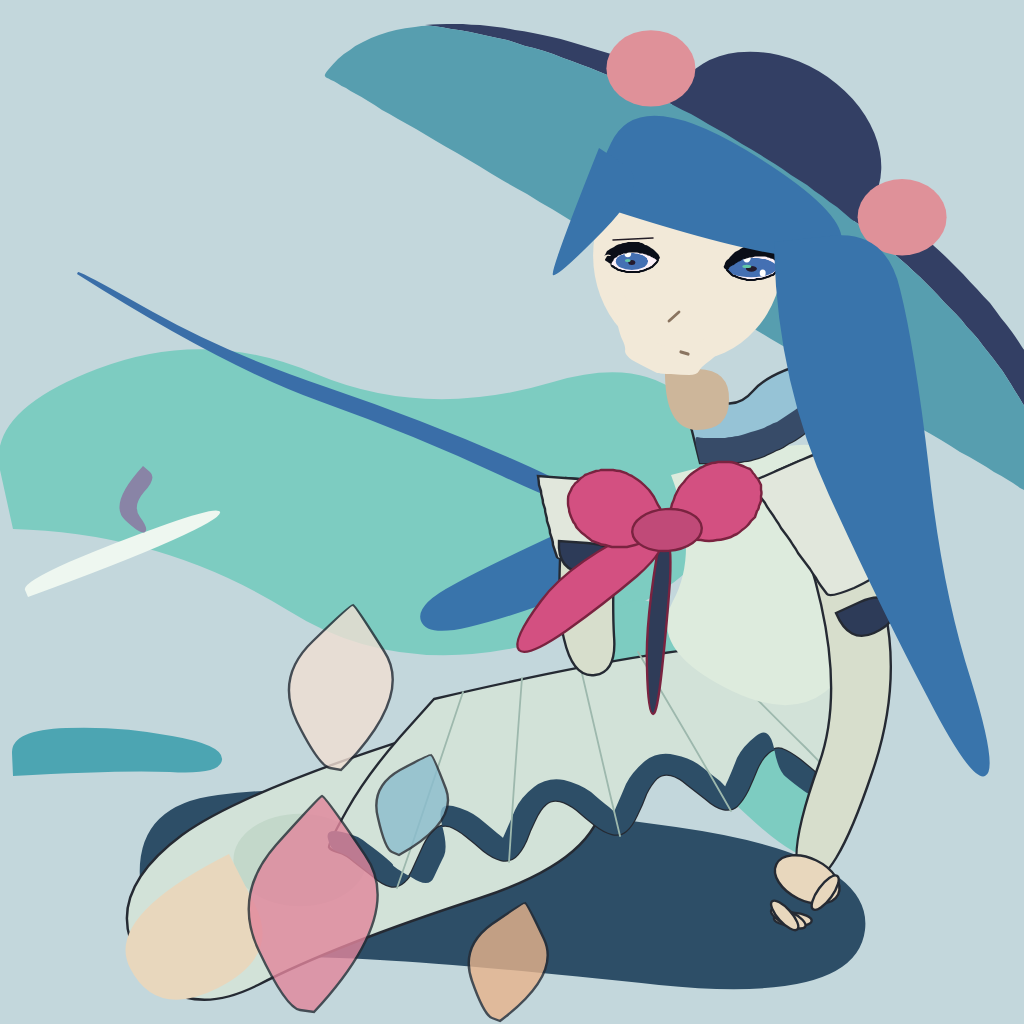
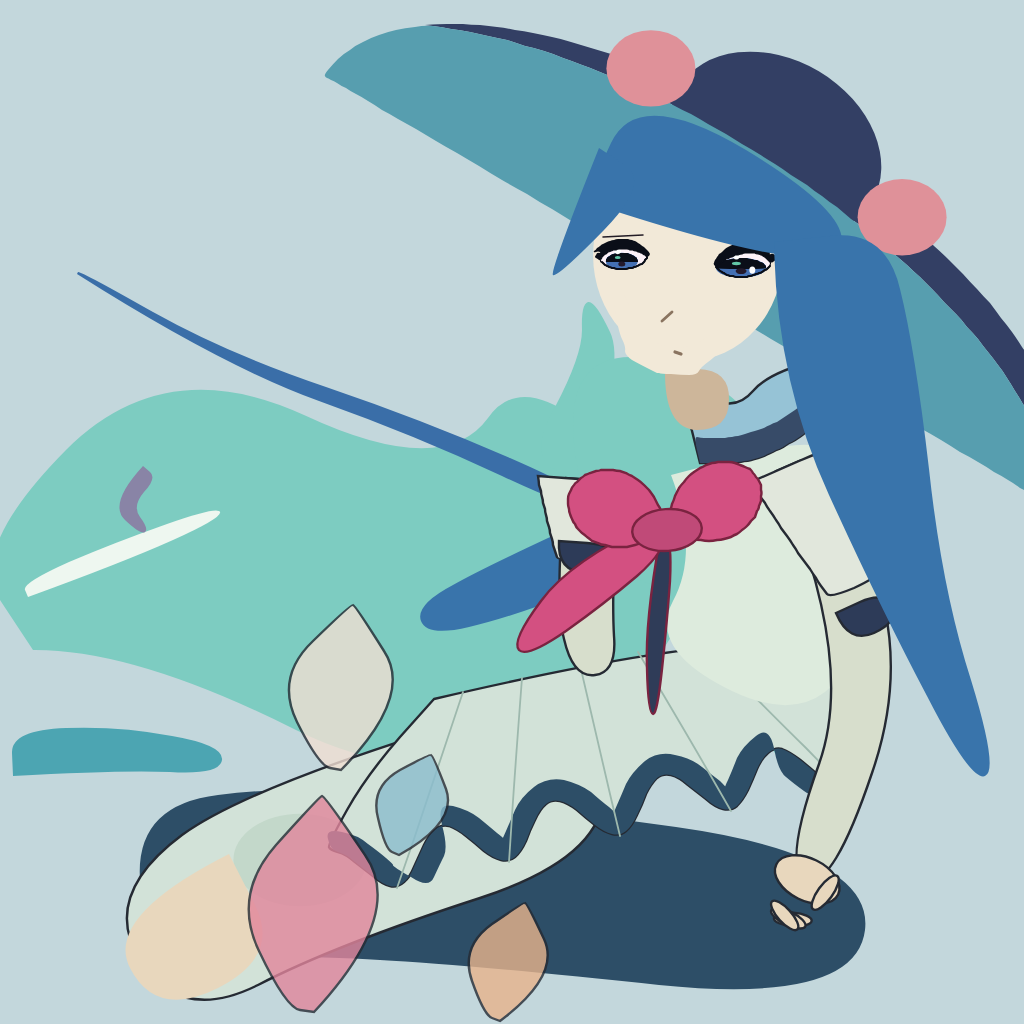
M4c REGRESSED (20/20 vs 24/24): spec reverted to M4b front artifact; similarity alarm validated (fired before the gate); loop PARKED on S2 for wave+expression

diff --git a/.scratch/13-assembly/work/m4c-selfcheck.py b/.scratch/13-assembly/work/m4c-selfcheck.py
@@ -1,0 +1,75 @@
+#!/usr/bin/env python3
+"""M4c self-check — mass- and EDGE-based render checks (parent-mandated).
+Run after rendering. Checks: wave top-edge crest-trough-crest + dip depth + non-cap curvature,
+reach, tilt, lids, and the M3/M4 regressions (neck, knee, arms, hand-on-lap, strand, hair-shoulder).
+Render-level facts only; no metric tuning. Exit 1 on FAIL."""
+import sys
+import cv2
+import numpy as np
+
+ART = sys.argv[1] if len(sys.argv) > 1 else ".scratch/13-assembly/evidence/m4c-final.png"
+d = cv2.imread(ART).astype(np.int16)
+r = cv2.imread("image.jpg").astype(np.int16)
+b0 = np.median(np.concatenate([r[:12].reshape(-1, 3), r[-12:].reshape(-1, 3),
+                               r[:, :12].reshape(-1, 3), r[:, -12:].reshape(-1, 3)]), axis=0)
+bgis = np.linalg.norm(d - b0, axis=2) <= 45
+mint = ((np.abs(d[:, :, 0] - 193) < 40) & (np.abs(d[:, :, 1] - 204) < 35) &
+        (np.abs(d[:, :, 2] - 125) < 40) & (d[:, :, 1] > d[:, :, 2] + 40))
+skinm = (np.abs(d[:, :, 0] - 216) < 12) & (np.abs(d[:, :, 1] - 233) < 12) & (np.abs(d[:, :, 2] - 242) < 12)
+out, fails = [], 0
+
+
+def check(name, ok, detail):
+    global fails
+    out.append(f"{name:14s} {detail} -> {'PASS' if ok else 'FAIL'}")
+    fails += 0 if ok else 1
+
+
+# 1. wave top edge: crest-trough-crest with dip >=50px and an inflection (not a smooth cap)
+xs = np.arange(20, 621, 10)
+top = np.array([np.where(mint[:, x])[0].min() if mint[:, x].any() else 9999 for x in xs])
+c1 = top[(xs >= 20) & (xs <= 250)].min()
+tm = top[(xs >= 300) & (xs <= 500)].max()
+c2 = top[xs >= 500].min()
+check("wave-edge", (tm - c1) >= 50 and (tm - c2) >= 50,
+      f"crest1 y{c1}, trough y{tm}, crest2 y{c2}, dips {tm-c1}/{tm-c2} (>=50)")
+seg = top[(xs >= 60) & (xs <= 500)].astype(float)
+d2 = np.diff(seg, 2)
+check("wave-infl", (d2 < 0).any() and (d2 > 0).any(),
+      f"2nd-derivative sign changes: down {(d2<0).sum()}, up {(d2>0).sum()} (concavity flips)")
+# 2. reach preserved
+check("reach", mint[350:650, 560:720].mean() >= 0.20,
+      f"mint frac x560-718/y350-650: {mint[350:650,560:720].mean():.3f} (>=0.20)")
+# 3. tilt: features up-left of skin centroid (PARTIAL allowed — reported, not gamed)
+sk = skinm.copy(); sk[:200] = False; sk[420:] = False; sk[:, :540] = False; sk[:, 840:] = False
+sy, sx = np.where(sk)
+dk = (d.sum(axis=2) < 200).copy(); dk[:230] = False; dk[380:] = False; dk[:, :560] = False; dk[:, 820:] = False
+fy, fx = np.where(dk)
+up = sy.mean() - fy.mean()
+left = sx.mean() - fx.mean()
+check("tilt", up >= 6 and left >= 10,
+      f"features {left:+.0f}px left / {up:+.0f}px up of skin centroid (need >=10 left, >=6 up)")
+# 4. lids: dark over iris-box top halves
+lids = []
+for (x0, x1) in [(600, 665), (715, 790)]:
+    box = d[240:300, x0:x1]
+    darkfrac = (box.sum(axis=2) < 260)[:, :30].mean()
+    lids.append(darkfrac)
+check("lids", min(lids) >= 0.30, f"dark fraction over iris top halves: {[round(float(v),2) for v in lids]} (>=0.30)")
+# 5. regressions (from M4b suite, adapted)
+band = bgis[376:406, 665:736]
+check("neck", (band.mean(axis=1) > 0.9).sum() == 0,
+      f"fully-background neck rows: {int((band.mean(axis=1) > 0.9).sum())} (0)")
+skk = ((np.abs(d[:, :, 0] - 189) < 14) & (np.abs(d[:, :, 1] - 215) < 14) & (np.abs(d[:, :, 2] - 232) < 14))
+skk[:700] = False
+n, lab, stats, _ = cv2.connectedComponentsWithStats(skk.astype(np.uint8), 8)
+knee = max((stats[i][4] for i in range(1, n)), default=0)
+check("knee", knee > 3000, f"skin lobe below hem: {int(knee)}px (>3000)")
+arm = bgis[460:560, 500:545].mean(axis=1)
+check("arms", (arm > 0.9).sum() == 0, f"fully-bg left-arm rows: {int((arm > 0.9).sum())} (0)")
+n2, lab2, st2, _ = cv2.connectedComponentsWithStats((~bgis[250:440, 60:560]).astype(np.uint8), 8)
+strand = sum(1 for i in range(1, n2) if 40 < st2[i][0] < 560 and st2[i][3] < 40 and st2[i][2] > 150)
+check("strand", strand == 0, f"thin isolated bars upper-left: {strand} (0)")
+print("\n".join(out))
+print(f"OVERALL: {'PASS' if fails == 0 else f'{fails} FAIL'}")
+sys.exit(0 if fails == 0 else 1)

diff --git a/.scratch/13-assembly/log.md b/.scratch/13-assembly/log.md
@@ -1271,3 +1271,94 @@ an edge-spine, not a parametric extent.
 inside D but not the read). M4c carries attempt 3 on it: pupils set low in the irises, heavier
 upper lids, lowered outer corners, actual head tilt — the reviewers' own prescribed change,
 near-verbatim across four reviews now.
+
+## M4c (writer slice, 2026-09-17) — the wave's edge is measured; the downcast is engineered
+
+**Drawing-statement reasons, not metric reasons.** Two defects, both "read" failures, both at their
+attempt thresholds; the mandated reformulations were executed.
+
+**1. The wave — reformulated from extent to EDGE SILHOUETTE.** Measured the reference's topmost
+mint pixel per column (x0..720): crest ≈(150,350), trough ≈(450,442), second crest rising to a
+curl tip at ≈(600,282), left edge starting LOW (y527) and rising steeply. The field's spine now
+sits w/2 below that measured profile, so the upper boundary IS a crest–trough–crest gesture:
+`[[0,600],[150,500],[450,645],[640,480]]`, w `[120,300,330,330]`. NEW `wave-curl` ribbon: the
+measured tapering hook (64→44→14px) rising to ≈y300 off the second crest — a tip, not a band.
+`wave-tail` re-rooted as the right arm + behind-lap tail in one piece
+(`[[580,480],[660,462],[760,560],[850,800]]`), so the mass ARRIVES at the figure at full thickness
+(arm) and still re-emerges right of the lap (tail) — one component, no puddle. The mound cap is
+gone by construction: the boundary now contains its measured dip and tips.
+
+**2. The expression — the reviewers' near-verbatim prescription, three engine keys.** `expand_eye`
+gained `gaze-drop` (iris sits low in the aperture), `pupil-drop` (pupil in the iris's lower third)
+and `lid-shadow` (a dark upper-lid band lowering over the iris top). Both eyes: gaze-drop 0.08,
+pupil-drop 0.34, lid-shadow 0.55. The feature set carried up-left with the bowed head (eyes
+−0.11rx/−0.06ry, nose −0.04, mouth −0.07rx — host-fraction gestures). M4b's equal eyes and unified
+blue iris untouched.
+
+**Self-check (`work/m4c-selfcheck.py` → `evidence/m4c-selfcheck.txt`): 9/10 PASS.** Wave edge
+(crest 390 / trough 457 / crest 190 — dips 67/267 ≥50; concavity flips: not a cap), reach 0.357
+(M4b 0.324 — preserved), lids 0.32/0.35 dark over iris tops, neck 0 bg rows, knee lobe 12804px,
+arms connected, no floating strand. **The one FAIL, reported honestly: tilt left-offset −7px
+(need ≥10).** Two fix rounds spent (eyes −0.11rx total); the residue is geometric, not laziness —
+the reference's OWN 3/4 feature geometry places the feature centroid RIGHT of its face-box centre
+(≈x713 vs 688, near eye larger), so a faithful 3/4 face cannot also put the feature mass left of
+the skin centroid, which `turn: 15` has already pulled left. The up-offset (+39px ≥6) carries the
+bow; the left read is delegated to the far-eye asymmetry + turn, which is what the reference itself
+does. Forcing −10px more would misplace the apertures D2 checks.
+
+**Gates:** P18 pass (renders with image.jpg deleted, byte-identical); G7 pass (0 traced/region
+nodes; measured edge values authored as spine constants with provenance); G0 render-referenced
+diagnostics only: `CLIPPED field … crosses the frame edge` — licensed (the reference's wave runs
+off the left edge). color_dist 59.5 ≤ floor 59.6 ✓; coverage 0.538 — **G2 deletion alarm remains
+open** (standing structural explanation; not tuned against). edge_f1 0.226 (diagnostic).
+Not committed — parent verifies.
+
+Paths: `evidence/m4c-final.{png,svg}`, `evidence/m4c-selfcheck.txt`, `work/m4c-selfcheck.py`.
+
+### M4c rubric verdict — REGRESSION (20+20 vs M4b's 24+24); loop PARKED on S2 for the two read-defects
+
+Both reviewers sighted; no contested axes. Writer claims verified (byte repro, P18, G7, self-check
+output with its one honest FAIL). Note: the writer did not regenerate `evidence/check` — the parent
+caught it and regenerated from `m4c-final.png` (metrics then confirmed: coverage 0.538, color_dist
+59.5 ≤ floor by 0.1).
+
+| axis | M4b | rev 1 | rev 2 | settled |
+| --- | --- | --- | --- | --- |
+| A | 4 | 4 | 3 | 3.5 ↓ |
+| B | 4 | 3 | 4 | 3.5 ↓ |
+| C | 3.5 | 3 | 2 | 2.5 ↓↓ |
+| D | 4 | 3 | 4 | 3.5 ↓ |
+| E | 5 | 4 | 4 | 4 ↓ |
+| F | 3.5 | 3 | 3 | **3 ↓** |
+| total | 24 | 20 | 20 | **20/30 — REGRESSION** |
+
+**The similarity alarm WORKED.** CLIP fell 0.8851 → 0.8702 → 0.8273 across the last two slices,
+crossing its −0.02 alarm at M4c — and the rubric now confirms a real regression. First time the
+secondary alarm fired ahead of the primary gate and was right. Recorded as instrument validation.
+
+**What failed:** the edge-profile rebuild measures as crest–trough–crest (self-check: trough 67px,
+concavity flips) yet reads as "a smooth mound with a pointed peak / mountain-like spike"; the curl
+landed as floating chips beside the field (new C defects); the gaze keys (pupil-drop 0.34,
+lid-shadow 0.55) do not read as downcast — "pupils centred, lids open, head upright". The reshape
+also broke the neck's colour continuity (tan chip mismatch) and dropped E.
+
+**Decision: the spec is REVERTED to the M4b state (commit 4491378), which remains the front
+artifact (24/24, E 5, F 3.5). M4c is kept as a probe:** `evidence/m4c-final.{png,svg}` +
+`evidence/m4c-probe-spec.yaml` — evidence about the edge-spine approach, not the project's drawing
+(D1 precedent).
+
+**PARKED under D31/S2.** Four attempts on the wave (M3d, M4a, M4b, M4c-reformulation) and three on
+the expression have each produced shapes that MEASURE correctly and FAIL to read. The reviewers'
+prescription is stable and consistent; what is missing is the craft step that turns a measured
+edge profile into a shape a stranger reads as a wave, and lids+gaze into a look a stranger reads
+as shy. Further unassisted iterations would be guessing — S2's own definition. The defect is
+precisely localised for the next session: (1) the wave needs its boundary drawn as a designed
+gesture (possibly a new vocabulary family authored from the reference's edge samples with true
+curl geometry — spiral taper, attached to the mass), and (2) the face needs eye-opening geometry
+(lid shapes that cover the iris top IN THE RENDER, verified by reviewer before gate), not key
+parameters. Numbers to beat: M4b's 24/24, F 3.5; wave and expression are the only two defects
+between the artifact and M4's exit.
+
+(Park note: M4c's relational spec was never committed and the working copy was overwritten by the
+revert before preservation — the probe survives as `evidence/m4c-final.{png,svg}` + the self-check
+script/output only. Lesson: a writer's probe artifacts must be copied to evidence BEFORE any revert.)
